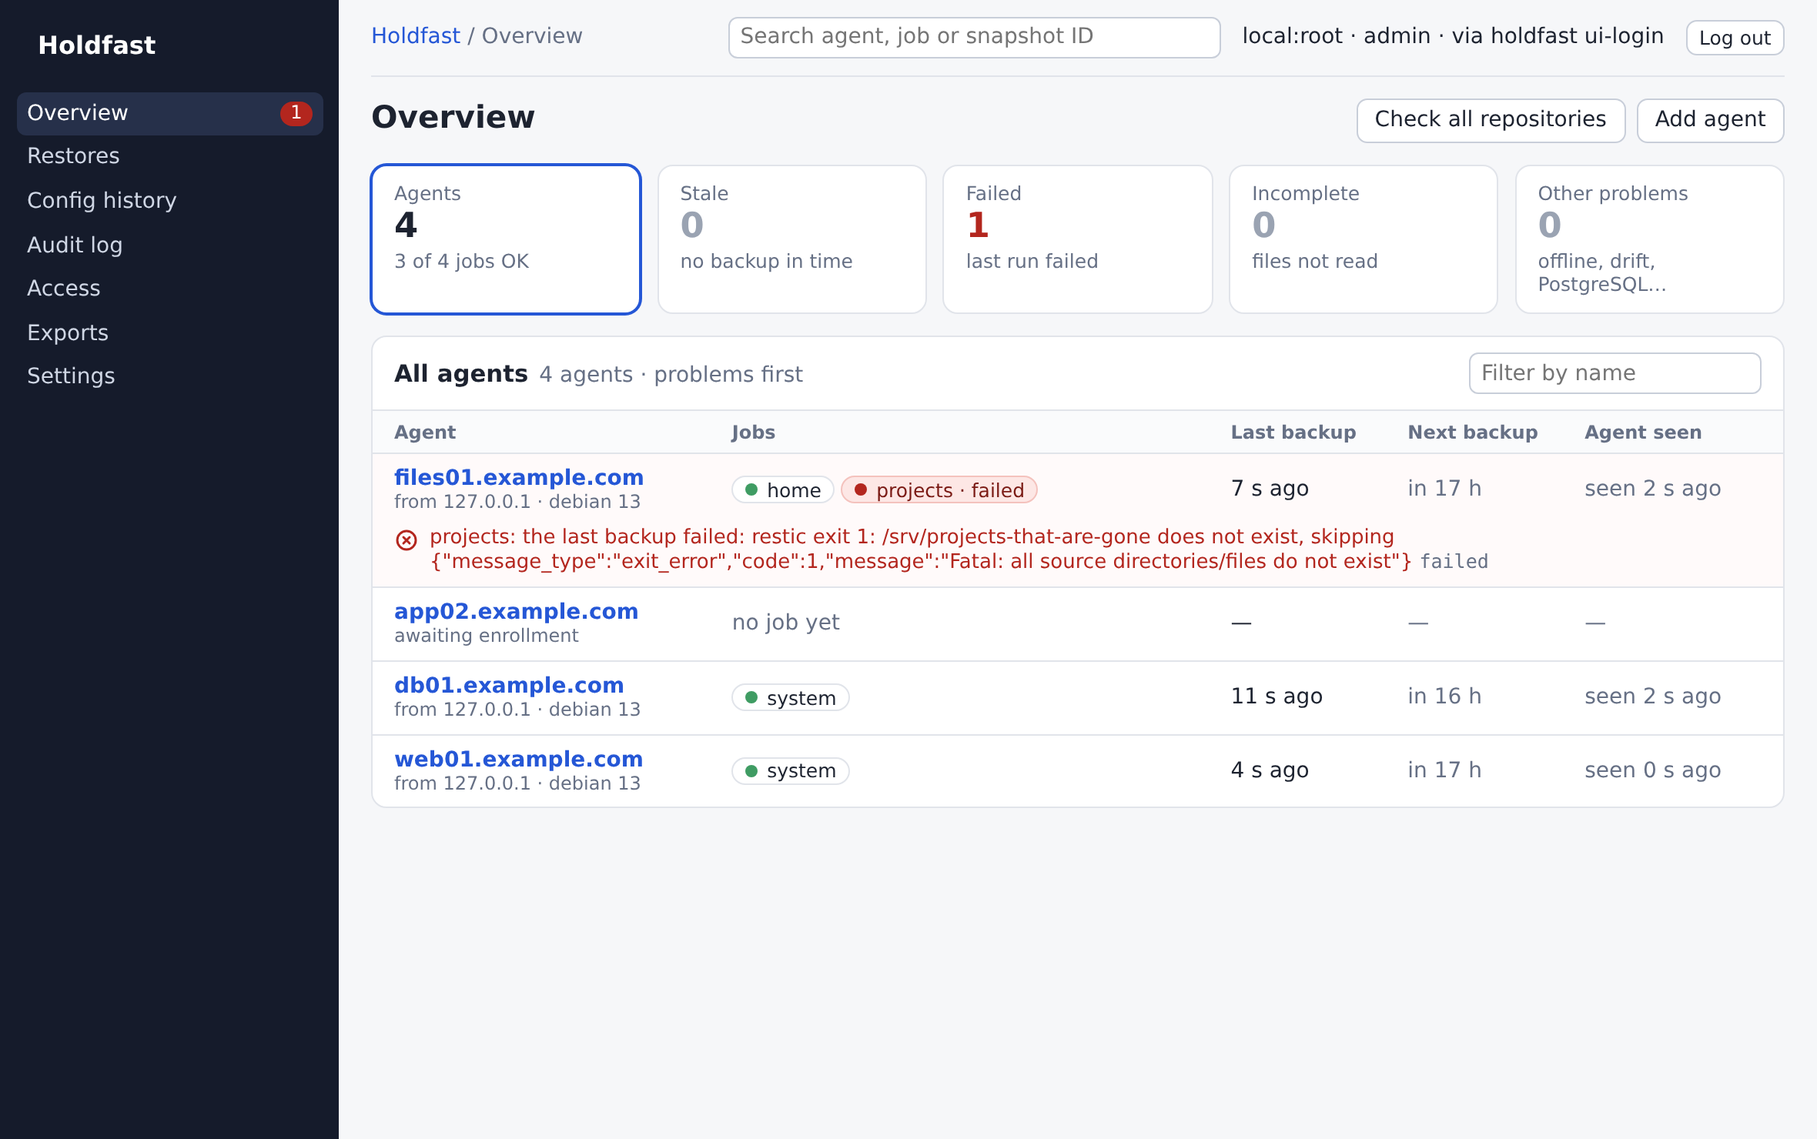
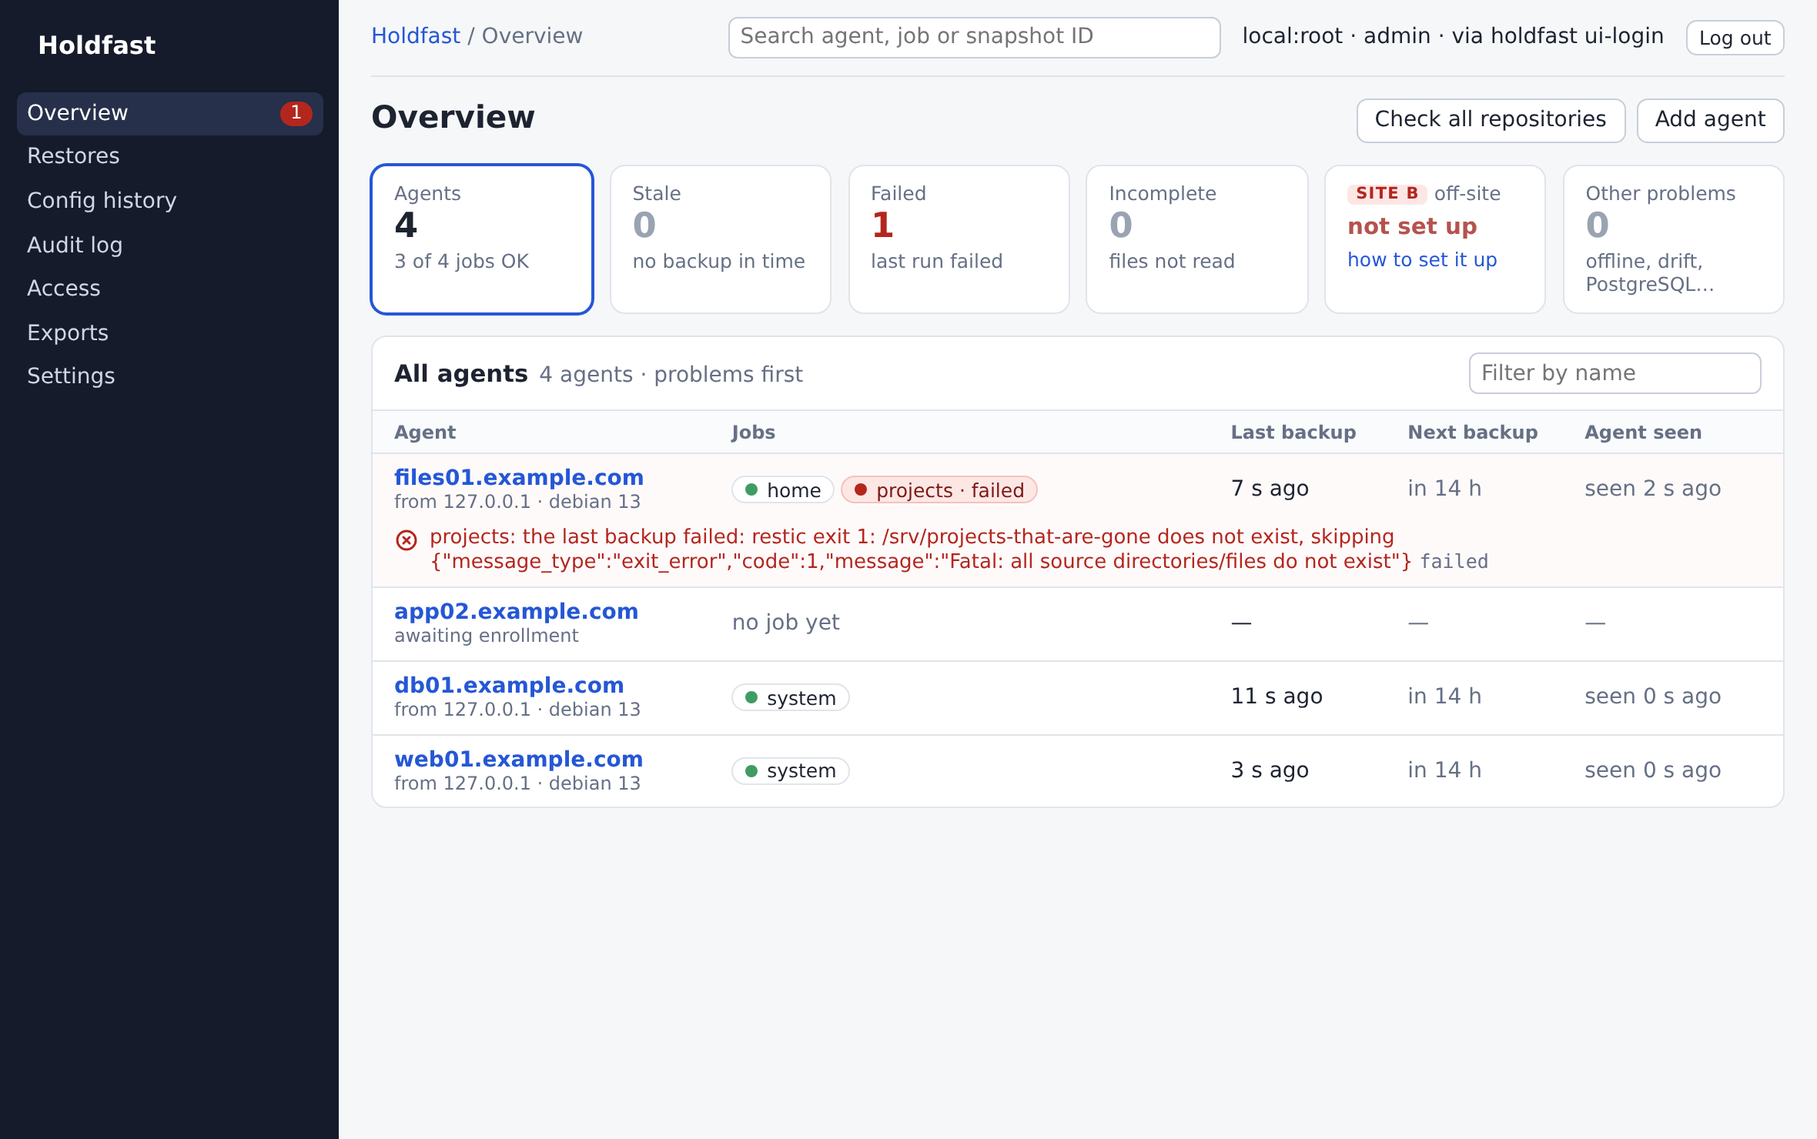
A server without off-site copies says so, on the Overview and in Settings (decision 057)
- The Overview has a tile for site B, where the Off-site tile is with an off-site bucket: "not set up", in muted red
  beside site B's red label, and a link to how to set it up. Settings says it in its Off-site copies row.
- Nowhere else: agent and job pages, job rows and the calendar say nothing about a site that does not exist. No
  alert, no problem, no metric. GET /api/v1/settings and holdfast settings already say "offsite": false.
- The Off-site tile, with an off-site bucket, carries site B's label; the Exports page's line becomes rows, a site's
  last export each when there are two.
- Decision 057 amends decision 041's "nothing is shown"; the spec, CLAUDE.md, the website and the changelog follow.
- The Overview's tiles may be a little narrower, so six fit in a row.

Changed region(s): [[0.3093, 0.1554, 0.9589, 0.2797]]

diff --git a/website/index.html b/website/index.html
@@ -537,7 +537,7 @@ holdfast snapshot list web01.example.com</code></pre></div></li>
     <div class="shots">
       <figure class="shot">
         <img src="img/overview.png" alt="The Overview: tiles counting agents, stale, failed and incomplete jobs and other problems; then four agents with their jobs and last and next backups. files01 comes first, with its failed job's error under it; app02 waits for its agent to enroll. An Add agent button is at the top right." loading="lazy">
-        <figcaption><strong>Overview.</strong> Every agent you may see, those with problems first, with each problem under its agent: this list is what the server's alerts send (<a href="#problems">Problems</a>). The tiles count stale, failed and incomplete jobs and other problems; choose one to see only those agents. <strong>Add agent</strong> is at the top. Here, a job on <code>files01</code> fails, and <code>app02</code> has been added and waits for its agent to enroll.</figcaption>
+        <figcaption><strong>Overview.</strong> Every agent you may see, those with problems first, with each problem under its agent: this list is what the server's alerts send (<a href="#problems">Problems</a>). The tiles count stale, failed and incomplete jobs and other problems; choose one to see only those agents. Without an off-site bucket, a tile says that site B, the off-site copies, is not set up, and links to how to set it up (<a href="#install-offsite">Off-site copies</a>). <strong>Add agent</strong> is at the top. Here, a job on <code>files01</code> fails, and <code>app02</code> has been added and waits for its agent to enroll.</figcaption>
       </figure>
       <figure class="shot">
         <img src="img/host.png" alt="An agent's page: a row for the agent and one for its software; a row per job with its state, what it backs up, a square for each of the last 14 days, its last and next backup, and Back up now and Restore buttons; the recent runs; and the repository with its size and escrow file." loading="lazy">
@@ -1526,6 +1526,7 @@ systemctl start mariadb-export.service      <span class="c"># once now, to see t
 
   <div class="sub" id="offsite">
     <h3>Off-site copies</h3>
+    <p>Without one, the Overview and Settings say that site B is not set up; nothing else mentions it, and nothing warns.</p>
     <p>With an off-site bucket, the server copies every new snapshot there, every 5 minutes by default, with <code>restic copy</code>. Each host has its own off-site repository with its own password, escrowed in the off-site bucket. The host does not keep it: for a restore from off-site its agent gets it sealed, once, in the restore command, and reads its own copy through the gateway, read-only, until the restore is done. Once a day the off-site repository is checked and cleaned up like the primary one, under its own retention, behind the same 7-day protection.</p>
     <ul class="plain">
       <li><strong>On the server's own pages</strong>, with an off-site bucket: the Overview's <strong>Off-site</strong> tile counts the hosts whose copies fail or lag; an agent's page has an <strong>Off-site</strong> column per job (up to date, copying, behind, failing, or not copied); and a job's page shows both sites in its one calendar, each day's square split in two (<a href="#snapshots">Snapshots</a>), with a line per site in its header: the off-site line says whether the copies' retention is primary's or the job's own, with <strong>Keep the same as primary</strong>, <strong>Set its own</strong> and <strong>Stop copying</strong>. The off-site pages keep what exists only off-site: jobs and hosts primary removed, Prune now and Delete now there, and its history and audit log.</li>

diff --git a/internal/webui/static/pages/overview.js b/internal/webui/static/pages/overview.js
@@ -1,6 +1,6 @@
 // Overview, the start page: every agent you may see, worst first, with tiles that count what is wrong and filter the
 // list by it. Each problem shows once, under its agent (spec §5.5a); the server works them out (problems.go).
-import { html, useState, link, ago, until, useAction, ErrorBox, Problem, isPG, backsUp, dbIcon } from '../lib.js';
+import { html, useState, link, ago, until, useAction, ErrorBox, Problem, isPG, backsUp, dbIcon, SiteTag, OFFSITE_DOCS } from '../lib.js';
 import { api } from '../api.js';
 
 // jobState is how a job's pill reads: the server's problem for it, or OK.
@@ -62,7 +62,8 @@ export function Overview({ me, hosts, vault, settings }) {
     ['stale', 'Stale', count('stale'), 'no backup in time', 'error'],
     ['failed', 'Failed', count('failed'), 'last run failed', 'error'],
     ['incomplete', 'Incomplete', count('incomplete'), 'files not read', 'warning'],
-    !vault && settings.offsite && ['offsite', 'Off-site', hosts.filter(offsite).length, 'copies failing or behind', 'error'],
+    // Site B: its copies' problems with an off-site bucket; without one, that it is not set up (decision 057).
+    !vault && (settings.offsite ? ['offsite', html`<${SiteTag} b /> off-site`, hosts.filter(offsite).length, 'copies failing or behind', 'error'] : ['siteb', null]),
     ['other', 'Other problems', hosts.filter(other).length, 'offline, drift, PostgreSQL…', 'warning'],
   ].filter(Boolean);
   const keep = (h) => filter === 'all' || (filter === 'other' ? other(h) : filter === 'offsite' ? offsite(h) : (h.problems || []).some((p) => p.code === filter));
@@ -81,9 +82,11 @@ export function Overview({ me, hosts, vault, settings }) {
     <${ErrorBox} error=${check.error} />
     ${check.done && html`<div class="banner ok">Checks asked for on ${check.done.length} agents. Each agent runs restic check on its next poll; its result is in the agent's runs.</div>`}
     <section class="tiles" aria-label="Status: choose one to filter the agents">
-      ${tiles.map(([id, label, n, sub, kind]) => html`<button type="button" class=${'tile' + (filter === id ? ' on' : '')} aria-pressed=${filter === id ? 'true' : 'false'}
+      ${tiles.map(([id, label, n, sub, kind]) => (id === 'siteb' ? html`<div class="tile" aria-label="Site B, off-site copies: not set up">
+          <span class="l"><${SiteTag} b /> off-site</span><span class="n notset">not set up</span><span class="s"><a href=${OFFSITE_DOCS} target="_blank" rel="noopener">how to set it up</a></span></div>`
+        : html`<button type="button" class=${'tile' + (filter === id ? ' on' : '')} aria-pressed=${filter === id ? 'true' : 'false'}
           onClick=${() => setFilter(filter === id ? 'all' : id)}>
-        <span class="l">${label}</span><span class=${'n ' + (id === 'all' ? '' : n === 0 ? 'zero' : kind)}>${n}</span><span class="s">${sub}</span></button>`)}
+        <span class="l">${label}</span><span class=${'n ' + (id === 'all' ? '' : n === 0 ? 'zero' : kind)}>${n}</span><span class="s">${sub}</span></button>`))}
     </section>
     <section class="list" aria-label="Agents">
       <div class="list-head">

diff --git a/internal/webui/static/pages/admin.js b/internal/webui/static/pages/admin.js
@@ -1,4 +1,4 @@
-import { html, useState, useEffect, usePoll, useAction, fmtTime, ErrorBox, Loading, Pill } from '../lib.js';
+import { html, useState, useEffect, usePoll, useAction, fmtTime, ErrorBox, Loading, Pill, SiteTag, OFFSITE_DOCS } from '../lib.js';
 import { api } from '../api.js';
 
 export function Audit({ hosts }) {
@@ -80,7 +80,10 @@ export function Exports({ me }) {
     ${!v.on && html`<div class="banner warning">No export is written: server.yaml names no <code>escrow.age_recipient</code>.</div>`}
     ${v.restored && html`<div class="banner">This server was restored from ${v.restored.export_name} on ${fmtTime(v.restored.restored_at)}, at revision ${v.restored.head}.</div>`}
     ${v.on && html`<div class="panel row">
-      <span>Last written: ${v.last_good ? fmtTime(v.last_good.started_at) : 'never'}${v.offsite ? ` · off-site: ${v.last_offsite ? fmtTime(v.last_offsite.started_at) : 'never'}` : ''} · next: ${fmtTime(v.next_at)}</span>
+      <dl class="facts" style="margin:0;flex:1">
+        <dt>${v.offsite ? html`<${SiteTag} /> last written` : 'Last written'}</dt><dd>${v.last_good ? fmtTime(v.last_good.started_at) : 'never'}</dd>
+        ${v.offsite && html`<dt><${SiteTag} b /> last written</dt><dd>${v.last_offsite ? fmtTime(v.last_offsite.started_at) : 'never'}</dd>`}
+        <dt>Next</dt><dd>${fmtTime(v.next_at)}</dd></dl>
       ${me.admin_everywhere && html`<button class="primary" disabled=${now.busy} onClick=${() => now.run(() => api.exportNow()).then(ex.reload, ex.reload)}>Export now</button>`}
     </div>`}
     <${ErrorBox} error=${now.error} />
@@ -101,7 +104,8 @@ export function Settings({ settings, me }) {
     <div class="panel"><dl class="facts">
       ${s.role === 'vault' ? html`<dt>Off-site copies</dt><dd>made by ${s.node}, every agent's snapshots copied with restic copy, under their own retention</dd>`
         : html`<dt>Server</dt><dd>${s.node} · agents connect to ${s.agent_url}${s.ui_url ? ` · people to ${s.ui_url}` : ''}</dd>
-          <dt>Off-site copies</dt><dd>${s.offsite ? 'on: see the Off-site copies pages' : 'off: server.yaml has no offsite: section'}</dd>`}
+          <dt>Off-site copies</dt><dd>${s.offsite ? html`<${SiteTag} b /> on: see the Off-site copies pages`
+            : html`<${SiteTag} b /> <span class="notset">not set up</span>: <code>server.yaml</code> has no <code>offsite:</code> section. <a href=${OFFSITE_DOCS} target="_blank" rel="noopener">How to set it up</a>`}</dd>`}
       <dt>Default time zone</dt><dd>${s.default_zone}</dd>
       <dt>restic</dt><dd>${s.restic_version}, which the packages ship</dd>
       <dt>Storage</dt><dd>${s.storage.endpoint} · bucket ${s.storage.bucket}${s.storage.region ? ' · ' + s.storage.region : ''}</dd>

diff --git a/internal/webui/static/style.css b/internal/webui/static/style.css
@@ -109,7 +109,7 @@ button.link { border: 0; background: none; padding: 0; color: var(--accent); }
 button.link:hover { background: none; text-decoration: underline; }
 
 /* Overview: tiles that count and filter, and the hosts as rows with their problems under them. */
-.tiles { display: grid; grid-template-columns: repeat(auto-fit, minmax(150px, 1fr)); gap: .75rem; margin: 1rem 0; }
+.tiles { display: grid; grid-template-columns: repeat(auto-fit, minmax(120px, 1fr)); gap: .75rem; margin: 1rem 0; }
 .tile { text-align: left; background: var(--panel); border: 1px solid var(--line); border-radius: 10px; padding: .75rem 1rem; display: flex; flex-direction: column; gap: 1px; }
 .tile:hover { background: var(--panel); border-color: #c8ced9; }
 .tile.on { border-color: var(--accent); box-shadow: 0 0 0 1px var(--accent); }
@@ -189,6 +189,9 @@ dl.facts.head { margin: .3rem 0 .4rem; }
 /* A site's label, the same wherever a site is named as one: site A blue, site B red. With one site there is none. */
 .sitetag { display: inline-block; font-size: 10.5px; font-weight: 700; letter-spacing: .06em; padding: .05rem .4rem; border-radius: 4px; background: #e6ecfb; color: var(--accent); vertical-align: 1px; white-space: nowrap; }
 .sitetag.b { background: var(--err-bg); color: var(--err); }
+/* Site B when the server has none: plain words in muted red (decision 057). */
+.notset { color: #b4534d; }
+.tile .n.notset { font-size: 1.05rem; padding: .35rem 0 .2rem; }
 .siteline .banner { margin: .2rem 0 0; }
 .rules { display: flex; flex-wrap: wrap; gap: .35rem .5rem; align-items: center; padding: 0 1rem .6rem; font-size: 12.5px; }
 .rulechip { border: 1px solid var(--line); background: var(--panel); border-radius: 999px; padding: .15rem .6rem; font-size: 12.5px; }

diff --git a/internal/webui/static/lib.js b/internal/webui/static/lib.js
@@ -355,6 +355,9 @@ export function Kind({ job, more }) {
     ${more && paths.length > 3 && html`<a class="more" href=${more}>+${paths.length - 3} more</a>`}</span></span>`;
 }
 
+// OFFSITE_DOCS is how to set up off-site copies, in the documentation.
+export const OFFSITE_DOCS = 'https://kabsdk.github.io/holdfast/#install-offsite';
+
 // SiteTag is a site's label: SITE A blue, SITE B red. It names a site only where there are two.
 export const SiteTag = ({ b }) => html`<span class=${'sitetag' + (b ? ' b' : '')}>${b ? 'SITE B' : 'SITE A'}</span>`;
 

diff --git a/test/e2e/ui_test.go b/test/e2e/ui_test.go
@@ -89,7 +89,7 @@ func TestUIPages(t *testing.T) {
 
 	// Overview, Settings, Audit log, Access, Config history, Restores render; the old Problems page opens the Overview.
 	for _, p := range []struct{ hash, text string }{
-		{"#/", "1 of 1 jobs OK"}, {"#/problems", "All agents"}, {"#/settings", "0.19.1, which the packages ship"}, {"#/audit", "host.add"},
+		{"#/", "1 of 1 jobs OK"}, {"#/problems", "All agents"}, {"#/settings", "0.19.1, which the packages ship"}, {"#/settings", "has no offsite: section"}, {"#/audit", "host.add"},
 		{"#/access", "holdfast-admins"}, {"#/history", "Revisions"}, {"#/restores", "Choose a snapshot"},
 	} {
 		open(t, ctx, p.hash)
@@ -104,6 +104,14 @@ func TestUIPages(t *testing.T) {
 	run(t, ctx, "the line under the agent's name", chromedp.Text(`.hostrow .sub`, &sub, chromedp.ByQuery))
 	if !strings.HasPrefix(sub, "from ") {
 		t.Fatalf("under the agent's name: %q, want the address it connects from", sub)
+	}
+	// Without an off-site bucket, a tile says site B is not set up, and links to how to set it up (decision 057);
+	// Settings says it too.
+	var siteB string
+	run(t, ctx, "the site B tile", chromedp.Evaluate(`(() => { const t = [...document.querySelectorAll('.tile')].find((x) => x.textContent.includes('not set up'));
+		return t ? [t.querySelector('.l').textContent, t.querySelector('.n').textContent, t.querySelector('a').getAttribute('href')].join('|') : ''; })()`, &siteB))
+	if siteB != "SITE B off-site|not set up|https://kabsdk.github.io/holdfast/#install-offsite" {
+		t.Fatalf("the Overview's site B tile without an off-site bucket: %q", siteB)
 	}
 	clickText(t, ctx, "button", "last run failed")
 	waitText(t, ctx, "No agent matches.")

diff --git a/test/e2e/offsite_test.go b/test/e2e/offsite_test.go
@@ -296,6 +296,14 @@ func TestOffsite(t *testing.T) {
 	ctx := newBrowser(t)
 	errs := jsErrors(ctx)
 	run(t, ctx, "root's link into the UI", chromedp.Navigate(e.rootLink()), chromedp.WaitVisible(`nav.side`, chromedp.ByQuery))
+	// The Overview's site B tile counts the agents whose copies fail or lag; nothing says it is not set up.
+	open(t, ctx, "#/")
+	waitText(t, ctx, "copies failing or behind")
+	var notSet bool
+	run(t, ctx, "the Overview's tiles", chromedp.Evaluate(`document.body.textContent.includes('not set up')`, &notSet))
+	if notSet {
+		t.Fatal("with an off-site bucket, nothing may say site B is not set up")
+	}
 	open(t, ctx, "#/agents/"+fqdn)
 	waitText(t, ctx, "Last 14 days")
 	waitText(t, ctx, "Off-site")

diff --git a/docs/spec.md b/docs/spec.md
@@ -482,9 +482,10 @@ See decision 032.
 
 ### 3.7 Off-site copies (optional)
 
-Decisions 027, 031, 039 and 041. **Off-site copies are optional.** Without an `offsite:` section in `server.yaml`,
-Holdfast keeps one bucket: nothing is copied, no off-site page, setting, column or action is shown, no snapshot is held
-back for a copy, and no off-site metric or alert exists. With it, holdfast-server copies every host's snapshots into a
+Decisions 027, 031, 039, 041 and 057. **Off-site copies are optional.** Without an `offsite:` section in
+`server.yaml`, Holdfast keeps one bucket: nothing is copied, no off-site page, column or action is shown, no snapshot is
+held back for a copy, and no off-site metric or alert exists. Only the Overview and Settings say that site B is not set
+up (decision 057), as `GET /api/v1/settings` and `holdfast settings` do: `"offsite": false`. With it, holdfast-server copies every host's snapshots into a
 second bucket, best in another site, with a key of its own there. Adding the section later starts copying from then on.
 
 **How it runs.** The server runs a second instance of its own code beside itself, the **off-site instance**, on the
@@ -1004,7 +1005,8 @@ tab:
 **The Overview**, the UI's start page, lists every host, those with problems first, and under each host what the
 server knows is wrong with it, each problem once, with its code. Its tiles count the stale, failed and incomplete jobs,
 with an off-site bucket the hosts whose copies fail or lag (`offsite_copy`, `offsite_lag`), and the hosts with any
-other problem; choosing a tile filters the list by it. `#/problems`, the page it replaced,
+other problem; choosing a tile filters the list by it. Without an off-site bucket, a tile in the Off-site tile's place
+says that site B is not set up, and links to how to set it up (decision 057). `#/problems`, the page it replaced,
 opens it. The problems are:
 - errors: `stale`, `failed`, `not_in_bucket` (the agent reported a backup whose snapshot the server, reading the
   repository from the bucket after the report, did not find: decision 045), `offsite_copy` (the last copy to the

diff --git a/docs/decisions/057-site-b-not-set-up-is-shown.md b/docs/decisions/057-site-b-not-set-up-is-shown.md
@@ -1,0 +1,22 @@
+# 057: A server without off-site copies says so, on the Overview and in Settings
+
+Status: accepted, 2026-11-26. Amends [decision 041](041-two-programs-gateway-and-agent-certificates.md), point 5.
+Built in 0.1-dev.
+
+## Decision
+
+- Without `offsite:` in `server.yaml`, the **Overview** has a tile for site B, where the Off-site tile is with an
+  off-site bucket, that says **not set up** and links to how to set it up. **Settings** says it too, in its Off-site
+  copies row. Both in muted red, beside site B's red label.
+- Nowhere else. Agent and job pages, the job rows and the calendar say nothing about a site that does not exist, and
+  name no site at all while there is one. There is no alert, no problem on any agent, and no metric.
+- `GET /api/v1/settings` and `holdfast settings` already say it: `"offsite": false`.
+
+## Why
+
+- **A missing second copy should be seen.** Decision 041 made off-site optional and showed nothing without it, so a
+  server that keeps one copy of every backup looked the same as one that keeps two, and nothing said so. The
+  Overview is where people look at the state of their backups.
+- **Once, where the server's settings are.** Site B is a setting of the server's, not of a job or an agent. Repeating
+  it on every page would be noise, and an alert would nag those who chose one site on purpose.
+- Off-site stays optional: nothing is checked, nothing is held back for a copy, and nothing warns.

diff --git a/CHANGELOG.md b/CHANGELOG.md
@@ -49,7 +49,8 @@ replaces it under the same name and tag, `v0.1-dev`, and installs as an upgrade 
   restoring onto another host.
 - Optional off-site copies, on the same pages as primary: a job's off-site retention follows its primary retention
   until one is saved off-site, and Match primary makes it follow again (decision 053). The problems `offsite_copy`
-  and `offsite_lag` show under the host and are alerted.
+  and `offsite_lag` show under the host and are alerted. Without them, the Overview and Settings say that site B is
+  not set up, and nothing else mentions it (decision 057).
 - Logins through OIDC with three roles, or `holdfast ui-login` for root without an identity provider. A page opened
   without a session goes straight to the login, without flashing a “not logged in” error on the way.
 - Recovery of the server itself from one recovery file and the bucket.

diff --git a/docs/decisions/041-two-programs-gateway-and-agent-certificates.md b/docs/decisions/041-two-programs-gateway-and-agent-certificates.md
@@ -1,7 +1,8 @@
 # 041: Two programs: a gateway in the server, agent certificates, off-site copies by the server
 
 Status: accepted, 2026-11-22, after a study of a simpler architecture and an independent review of it. It is built
-in M8.
+in M8. **Amended by [decision 057](057-site-b-not-set-up-is-shown.md) (2026-11-26):** without off-site copies, the
+Overview and Settings say that site B is not set up.
 
 It replaces: the per-host S3 keys of decisions 011 and 029; holdfast-vault (decisions 027 and 039); the part of
 decision 006 that lets a backup run while the server is down; M1's agent bearer token; and CLAUDE.md's rule

diff --git a/CLAUDE.md b/CLAUDE.md
@@ -56,7 +56,7 @@ Read the spec, and the decisions it points to, before changing anything.
 - **Hosts hold no S3 key.** They back up through the server's gateway with their own pinned certificate, and the
   gateway decides what a host may do: read and add to its own repository, delete only its own lock files, never
   rewrite a file or write config or keys (decision 041). Off-site stays optional: without `offsite:` nothing about
-  it is shown, checked or alerted.
+  it is checked or alerted, and only the Overview and Settings say that it is not set up (decision 057).
 
 These also follow from the spec:
 
